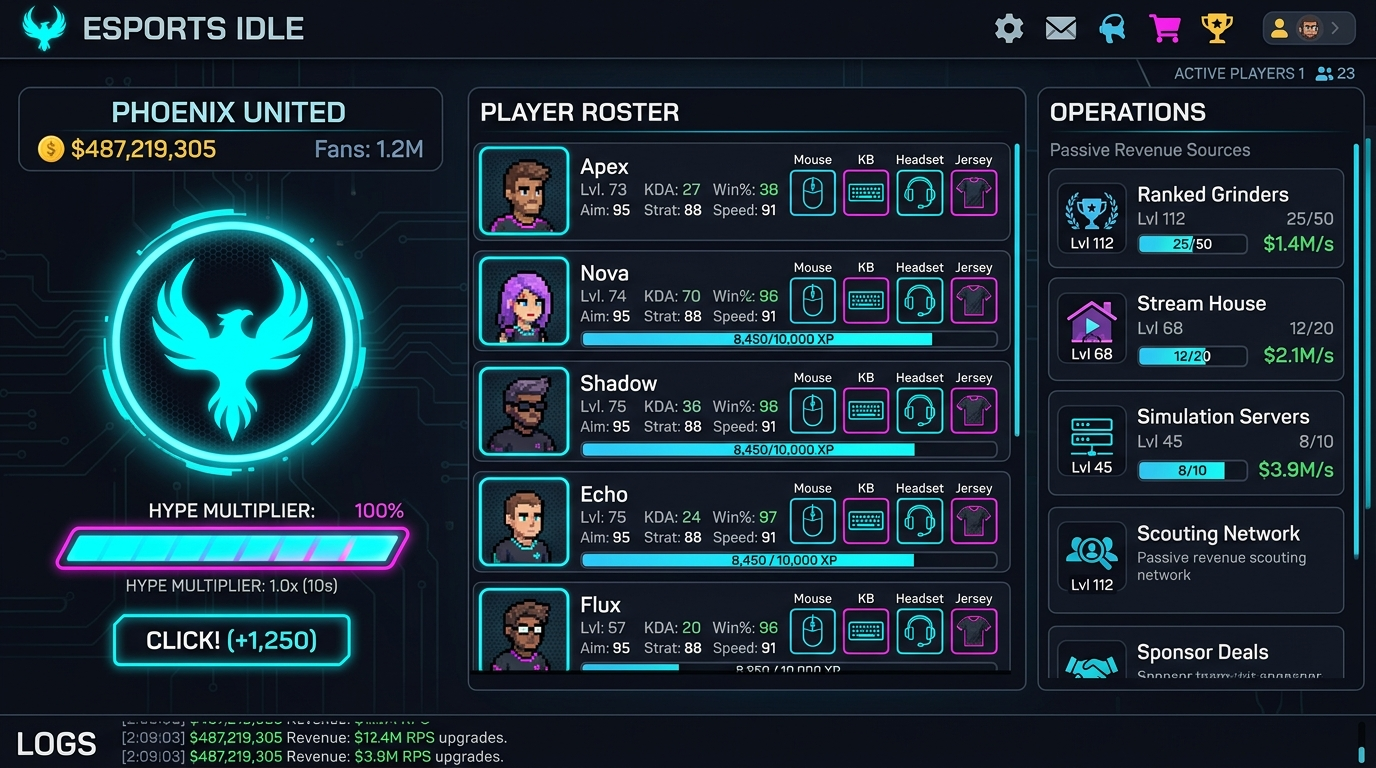
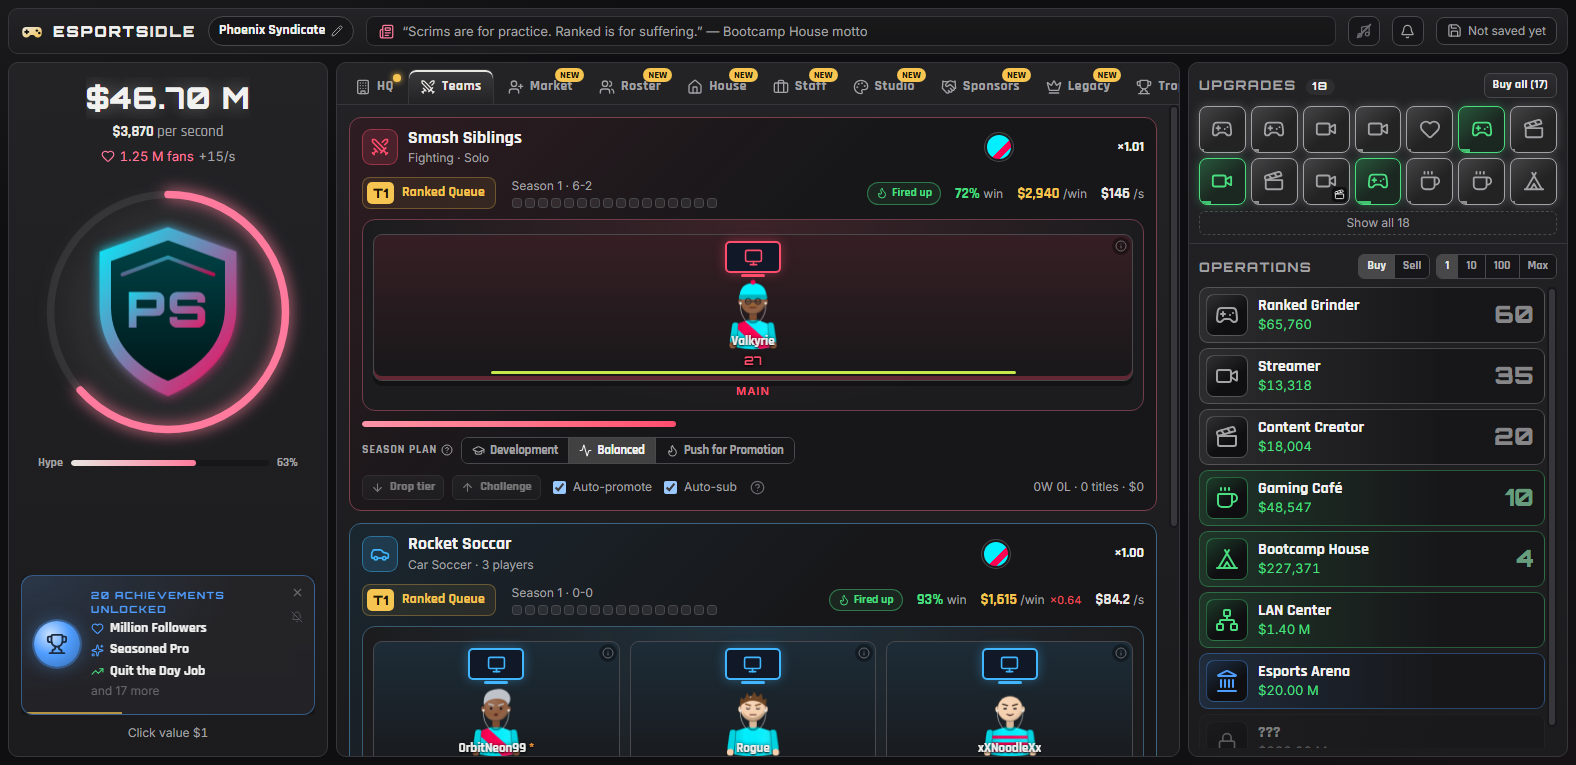
docs: rewrite README with player-centric focus and add authentic in-game screenshot

diff --git a/README.md b/README.md
@@ -1,91 +1,51 @@
 # Esports Idle
 
-An incremental (idle/clicker) game about building an esports empire, inspired by the depth of Cookie Clicker.
+An incremental management game where you turn a scrappy garage squad into an orbital esports dynasty.
 
-You start with nothing but a logo to click in a garage. You end up running leagues in orbit.
+Click the logo to build crowd hype, scout mechanical prodigies on the transfer market, kit them out with liquid-cooled rigs, and watch them battle through 16-game seasons across 12 parody titles. Behind the stage, fund your teams with a commercial empire spanning ranked grinders, streaming houses, custom merchandise lines, and high-risk sponsorships.
 
-**Play it here: https://hazzjc.github.io/esportsidle/**
+**Play directly in your browser:** https://hazzjc.github.io/esportsidle/
 
-![Esports Idle Gameplay Screenshot](docs/screenshot.png)
+![Esports Idle Gameplay](docs/screenshot.png)
 
-## What you actually do
+## The Core Loop
 
-- **Found your org**: name it, pick its colour and design a logo (a badge and a mark, or draw your own
-  later). Then a short tutorial: click your way to $25, sign and customise your founding player, watch
-  them compete, then open the store. The first few minutes are calm, with no random events, and new
-  tabs open as the org grows.
-- **Two sides to every org** — players, gear and seasons are the active side; operations are the passive
-  side that earns every second, even while the game is closed.
-- **Chase quests** — two milestone quests at a time (gear up, take a sponsor, design a shirt, hit a hype
-  streak, win a tournament, sell a player and more). Finish one and pick one of two rewards.
-- **Click your logo** to grind ranked and fill the hype meter. A full meter sends the crowd wild (income ×2).
-- **Buy operations** — 16 businesses from Ranked Grinders and Streamers up to Simulation Servers and the
-  Multiverse Championship, each with tiered upgrades, collabs and cross-synergies.
-- **Sign players** from a rotating transfer market. Every player is generated with stats, potential, traits,
-  a nationality, a look you can customise, and a price.
-- **Kit them out** — 10 gear slots with 15 tiers each: PC, monitor, mouse, keyboard, headset, chair, desk,
-  jersey, lucky charm and, of course, shoes. Gear boosts the stats that matter in that player's game.
-- **Win matches** — teams play simulated matches across 12 parody games, climbing an endless league ladder
-  through seasons, promotions, relegations and titles.
-- **Hire staff** — coaches, chefs, scouts, physios, analysts, social media managers, sports psychologists,
-  team managers, AI trainers, merch designers and talent agents.
-- **Look after people** — players get tired, sick, injured and burnt out. Chefs, physios, psychologists,
-  better chairs and a deep bench keep them playing.
-- **Catch Hype Drops** — the golden-cookie moment: LAN Frenzy, Prize Pools, Clutch Mode, Viral Clips,
-  operation Rushes, chaining Hype Trains and Tournament Invites that play out as a three-round bracket.
-- **Ride the news** — patches, streamer hype, meta shifts, food poisoning, flash sales, GPU shortages,
-  investors, poaching offers and contract demands all change the run as you play.
-- **Draw your own art** — a pixel editor with mirroring, fill, shapes, a text stamp and a live "merch appeal"
-  score. Your design becomes your logo, your jersey crest and your merch.
-- **Sell merch and sign sponsors** — 10 products with pricing sweet spots and fading novelty, plus 36 parody
-  brands across 12 categories with perks, bonus goals and a crypto sponsor that can collapse.
-- **Sell the org** — prestige into legacy points, spend them on a 37-node Legacy Tree, keep a franchise
-  player, retire stars as legend coaches, and take on challenge runs (Solo Queue, Potato League,
-  Skeleton Crew, No Hype, Tabloid Darling).
+Esports Idle runs on two interlocking engines:
 
-Everything is tracked by roughly 300 achievements and 380+ upgrades, and it autosaves in your browser.
+### 1. The Active Roster
+Sign procedurally generated players across multiple competitive titles, from solo fighters in *Smash Siblings* to tactical 5v5 squads in *Counter-Strike* parodies.
+* **Scout and Sign**: Hunt the transfer market for generational talent. Every rookie comes with their own stat distribution, skill ceiling, personality traits, and salary demands.
+* **Kit Out Rigs**: Upgrade 10 gear slots per player across 16 tiers, taking your roster from hand-me-down CRT monitors to quantum computing clusters and lucky charm desk ornaments.
+* **Manage the Season**: Set team tactical plans (Development, Balanced, or Push for Promotion). Chase promotion, dodge relegation, manage player burnout, and capture season championship trophies.
+* **Navigate Rivalries**: Face off against persistent rival organizations that track your head-to-head records and trigger high-stakes grudge matches.
 
-## Saves
+### 2. The Commercial Empire
+Matches need prize money, and players need salaries. Build an automated business network that generates cash every second, even when you are away:
+* **16 Tiered Operations**: Scale your revenue from solo Ranked Grinders and Streamers up to regional Bootcamp Houses, LAN Centers, and Multiverse Arenas.
+* **Custom Pixel Studio**: Design your own crest, logo, and jersey patterns inside the built-in pixel editor. Your artwork appears directly on player jerseys and in your official merch shop.
+* **Merch Store**: Launch 10 product lines, balance pricing sweet spots against market trends, and capitalize on viral hype waves.
+* **Sponsorship Deals**: Sign contracts with 36 parody brands across 12 categories. Chase performance bonuses, balance brand exclusivity, and decide whether risky crypto sponsorships are worth the gamble.
 
-The game autosaves to local storage, keeps rotating backups, and credits offline earnings when you return.
-In **Options** you can export your save as text or a file and import it on another device. There is no
-account and nothing is uploaded anywhere.
+## Hype, Drama, and Metagame
 
-## Development
+* **Logo Clicker and Click Chains**: Clicking your team crest fills the hype meter to spark *Crowd Goes Wild* multipliers. Pop floating hype bubbles in real time to stack chain bonuses up to 20x.
+* **Hype Drops and World Events**: Click golden drops for sudden cash spikes, tournament bracket invites, and viral surges. Respond to balance patches, player contract drama, and hardware shortages.
+* **Prestige and Legacy**: When your org reaches the top, sell the franchise to earn Legacy Points. Unlock permanent perks on a 37-node Legacy Tree, pick unique Founding Charters, carry forward franchise players, and tackle themed challenge runs.
+
+## Saves and Privacy
+
+The game autosaves directly to browser localStorage and keeps rolling automatic backups. You can export or import your save string at any time in the Options tab. No accounts, no logins, no tracking.
+
+## Running Locally
 
 Requires Node 22+.
 
 ```bash
 npm install
-npm run dev      # start the dev server
-npm test         # engine unit tests (vitest)
-npm run check    # type-check Svelte + TypeScript
-npm run build    # production build into dist/
-npm run sim      # headless balance simulation
+npm run dev      # run local development server
+npm test         # run Vitest test suite
+npm run check    # run Svelte and TypeScript diagnostics
+npm run build    # build production bundle
 ```
 
-The balance simulation plays the real engine with a "sensible player" and reports when milestones
-happen, which is how the pacing is tuned. Four player models are available: `active` (at the keyboard
-throughout), `semi` (the game open beside something else), `passive` (left running) and `casual`
-(four short check-ins a day).
-
-```bash
-npm run sim -- --hours=5 --mode=active --seed=1
-npm run sim -- --hours=5 --mode=semi --income          # where the money came from, every 10 minutes
-npm run sim -- --hours=5 --mode=passive --income --json=after.json
-npx tsx scripts/compare.ts before.json after.json      # what a balance change actually did
-```
-
-`--income` prints the economy report: income by source per interval, what each sponsor goal paid and
-what the org did to earn it, and a progression checklist. [docs/economy.md](docs/economy.md) is the
-write-up of the last pass.
-
-### Layout
-
-- `src/engine` — the game simulation. Plain TypeScript, no DOM access, unit tested.
-- `src/data` — content: operations, upgrades, games, gear, traits, staff, decor, sponsors, merch, legacy, news.
-- `src/ui` — Svelte 5 components and the store that drives them.
-- `scripts/sim.ts` — the headless balance simulation.
-- `scripts/compare.ts` — compares two sim runs, for judging a balance change.
-
-Game titles, organisations and brands in the game are fictional parodies.
+All game titles, organizations, and sponsor brands featured in the game are fictional parodies.

diff --git a/PATCH_NOTES.md b/PATCH_NOTES.md
@@ -15,8 +15,24 @@
 
 ## Pending Changes
 
-### Add comprehensive patch notes documentation and AI agent workflow
+### Player-centric README rewrite and authentic in-game screenshot
 *Status: Pending*
+
+* **The Issue / Motivation**:
+  * The previous README was heavily skewed toward developer instructions, contained excessive em dashes and rigid syntax, and featured an artificial AI-generated mockup that did not reflect actual gameplay.
+* **What Changed**:
+  * Replaced `docs/screenshot.png` with an authentic, high-resolution 1600x920 screenshot rendered directly from the running Svelte 5 engine with live teams, custom kit, operations, and match progression.
+  * Rewrote `README.md` to focus on player engagement, core loops (Active Roster vs Commercial Empire), and web play, while completely eliminating em dashes and corporate phrasing.
+  * Streamlined local setup instructions to a compact section at the end of the document.
+
+---
+
+## Historical Release & Commit Notes
+
+### Phase 6: Economy Overhaul, Balance & Feedback Loop Tuning
+
+#### `ba96581` — Add comprehensive patch notes documentation and AI agent workflow
+*Date: Sun Sep 20 2026* | *Status: Committed*
 
 * **The Issue / Motivation**:
   * The project had 38 commits across foundational milestones, UX passes, game systems, and post-launch tuning, but lacked a centralized, narrative patch notes file detailing the problems and solutions of each major push.
@@ -25,12 +41,6 @@
   * Created `PATCH_NOTES.md` documenting every major milestone, visual pass, system expansion, and balance update from scaffolding (`2b710ef`) through recent economy tuning (`de1e324`).
   * Established instructions for AI agents and human contributors to maintain the pending/committed changelog lifecycle.
   * Updated `AGENTS.md` to mandate patch notes logging for all AI agent workflows in the repository.
-
----
-
-## Historical Release & Commit Notes
-
-### Phase 6: Economy Overhaul, Balance & Feedback Loop Tuning
 
 #### `de1e324` — Progression Balance, Merch Upgrades & Activity Polish
 *Date: Sun Sep 20 2026* | *Status: Committed*
